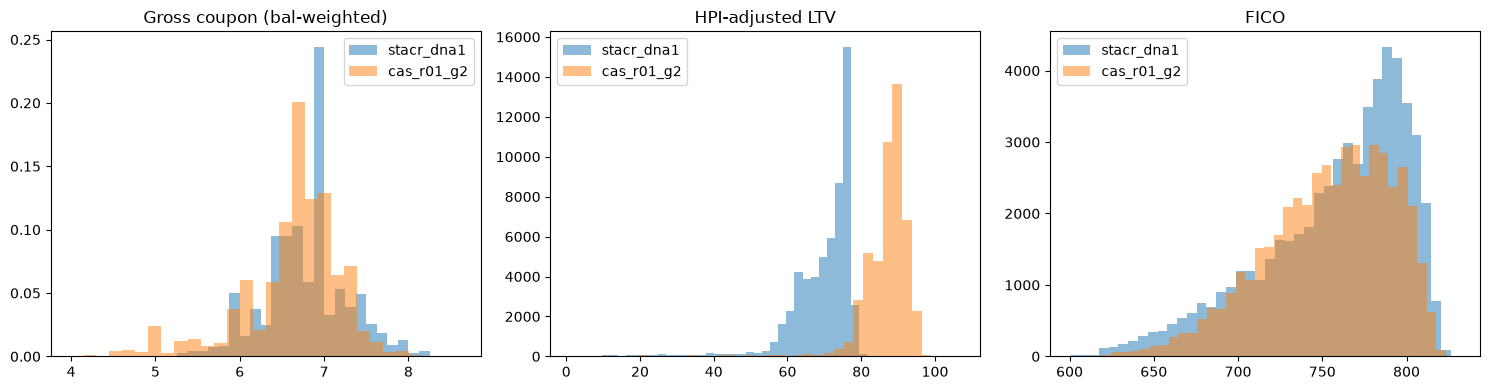
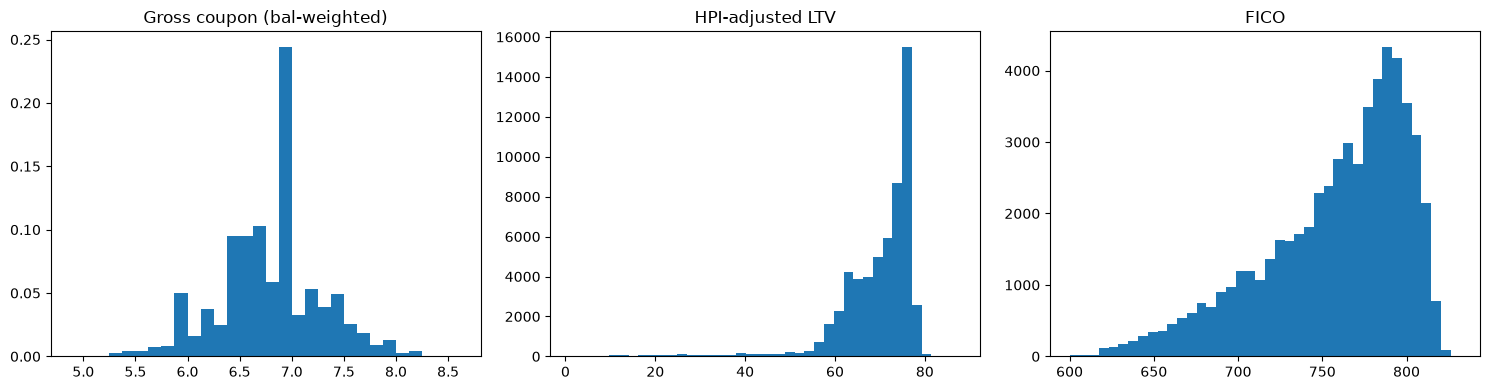
STACR only: remove CAS; add handoff note for the waterfall
- clean.py, README, docs and notebooks no longer load or compare CAS 2026-R01
- Notebook 01 rerun on the STACR pool only (loan-level preview cleared)
- outputs/HANDOFF_SMARAJIT.md: pool cash-flow columns, scenarios,
  pricing_rates.csv, SOFR at 0% in moderate/severe, 22-day first month

diff --git a/notebooks/scripts/01_data_check.py b/notebooks/scripts/01_data_check.py
@@ -1,7 +1,7 @@
 #!/usr/bin/env python
 # coding: utf-8
 
-# # 01 · Data check: STACR 2026-DNA1 & CAS 2026-R01 reference pools
+# # 01 · Data check: STACR 2026-DNA1 reference pool
 # 
 # **Purpose.** Before modeling, make sure the loan-level data is clean and understand what drives this pool's prepayment and credit risk. This notebook is the input side of the pipeline:
 # 
@@ -11,7 +11,7 @@
 # 
 # **Process.**
 # 1. **Clean** (`src/clean.py`): skip Bloomberg's title row, keep the modeling fields (balance, coupon, FICO, LTV, DTI, age, term, status, occupancy, purpose, state), map account status to a delinquency bucket (C = current, 3/6/9 = 30/60/90+ days), flag loans ever delinquent, set impossible HPI-LTVs of 0 to missing, and add each loan's balance weight.
-# 2. **Summarize** both pools with balance-weighted averages, the standard way to describe a mortgage pool.
+# 2. **Summarize** the pool with balance-weighted averages, the standard way to describe a mortgage pool.
 # 3. **Plot** the distributions that drive the model: coupon (refinancing incentive), HPI-adjusted LTV (default and severity), and FICO (default).
 # 4. **List status codes** still to resolve (`B`, `F`).
 # 5. **Anchor** the base-case prepayment speed on the paydown since the Feb 2026 cut-off.
@@ -50,11 +50,11 @@ clean.main()
 # In[3]:
 
 
-pools = {name: pd.read_parquet(clean.PROCESSED / f"{name}.parquet") for name in clean.FILES}
-pools['stacr_dna1'].head()
+pool = pd.read_parquet(clean.PROCESSED / "stacr_dna1.parquet")
+pool.head()
 
 
-# **Result · Cleaning.** `clean.py` ran without errors and wrote both parquet files: **STACR 56,871 loans, $19.44bn** and **CAS 48,808 loans, $16.90bn**. Every Bloomberg row with a Loan ID was kept (no duplicates, no zero balances). The table preview shows the added fields: `dq_bucket` (0 = current), `ever_dq`, and `weight` (each loan's share of pool balance). The only cleaning issue flagged is **20 STACR loans with status codes the map does not cover** (see section 4). CAS has none.
+# **Result · Cleaning.** `clean.py` ran without errors and wrote `data/processed/stacr_dna1.parquet`: **56,871 loans, $19.44bn**. Every Bloomberg row with a Loan ID was kept (no duplicates, no zero balances). The cleaned table adds `dq_bucket` (0 = current), `ever_dq`, and `weight` (each loan's share of pool balance). The only cleaning issue flagged is **20 loans with status codes the map does not cover** (see section 4).
 
 # ## 2. Pool summary (balance-weighted)
 
@@ -79,15 +79,15 @@ def summarize(df):
         "loans w/ unmapped status": df["dq_bucket"].isna().sum(),
     })
 
-pd.DataFrame({k: summarize(v) for k, v in pools.items()})
+summarize(pool).to_frame("stacr_dna1")
 
 
 # **Result · Pool summary.**
-# - **Credit quality is nearly identical**: WA FICO **759 vs 755** and WA DTI **38.5 vs 39.8**.
-# - **LTV is the real difference**: original LTV **75.6 vs 92.5**, and HPI-adjusted LTV **70.5 vs 87.0**. The two deals sit in different LTV buckets (STACR DNA1 ≤ 80, CAS group 2 > 80), so they carry different loss risk even with the same borrowers' credit scores.
-# - **Seasoning**: WA age **17.3 vs 15.4 months**. Both pools are young, but already past the fitted 6-month seasoning ramp (notebook 05), so they prepay at full speed.
-# - **Coupons**: WA **6.76% vs 6.62%**. That was above the market rate earlier in 2026 (PMMS about 6.05–6.5% from February to June), which explains the fast paydown since cut-off. With PMMS now at **7.28%**, both pools are about 0.5–0.7 pp *out of the money*.
-# - **Delinquency**: **0.62% vs 1.07%** of balance is 30+ days late. CAS is higher, consistent with its higher LTVs.
+# - **Credit quality is strong**: WA FICO **759** and WA DTI **38.5**.
+# - **Low LTV**: original LTV **75.6** (all loans 61–80), HPI-adjusted LTV **70.5**, so borrowers have about 30% equity at today's prices.
+# - **Seasoning**: WA age **17.3 months**: young, but already past the fitted 6-month seasoning ramp (notebook 05), so loans prepay at full speed.
+# - **Coupons**: WA **6.76%**. That was above the market rate earlier in 2026 (PMMS about 6.05–6.5% from February to June), which explains the fast paydown since cut-off. With PMMS now at **7.28%**, the pool is about 0.5 pp *out of the money*.
+# - **Delinquency**: **0.62%** of balance is 30+ days late.
 
 # ## 3. Distributions that drive your model
 # 
@@ -97,19 +97,18 @@ pd.DataFrame({k: summarize(v) for k, v in pools.items()})
 
 
 fig, axes = plt.subplots(1, 3, figsize=(15, 4))
-for name, df in pools.items():
-    axes[0].hist(df["Gross Coupon"], bins=30, weights=df["weight"], alpha=0.5, label=name)
-    axes[1].hist(df["HPI Adjusted LTV"].dropna(), bins=40, alpha=0.5, label=name)
-    axes[2].hist(df["Credit Score"].dropna(), bins=40, alpha=0.5, label=name)
+axes[0].hist(pool["Gross Coupon"], bins=30, weights=pool["weight"])
+axes[1].hist(pool["HPI Adjusted LTV"].dropna(), bins=40)
+axes[2].hist(pool["Credit Score"].dropna(), bins=40)
 for ax, t in zip(axes, ["Gross coupon (bal-weighted)", "HPI-adjusted LTV", "FICO"]):
-    ax.set_title(t); ax.legend()
+    ax.set_title(t)
 plt.tight_layout()
 
 
 # **Result · Distributions (balance-weighted coupon, LTV, FICO).**
-# - **Coupon**: about **80% of balance** in both pools has a coupon between 6.25% and 7.5% (82% STACR, 79% CAS). Because coupons are bunched, a rate move shifts most of the pool along the S-curve together, which is why prepayment is so rate-sensitive. From today's 7.28% PMMS, rates would need to fall about 1 pp to put most of the pool on the steep part of the curve.
-# - **HPI-adjusted LTV**: the two pools barely overlap. The middle 80% of STACR loans sit at **60–77** (max 88), while CAS sits at **80–93** (max 107, and **22 CAS loans are already underwater**). This is the single most important picture for severity.
-# - **FICO**: the middle 80% is about **690–800** in both pools, with tails down to about 600. The default model's FICO term matters mainly for that low-FICO tail.
+# - **Coupon**: about **82% of balance** has a coupon between 6.25% and 7.5%. Because coupons are bunched, a rate move shifts most of the pool along the S-curve together, which is why prepayment is so rate-sensitive. From today's 7.28% PMMS, rates would need to fall about 1 pp to put most of the pool on the steep part of the curve.
+# - **HPI-adjusted LTV**: the middle 80% of loans sit at **60–77** (max 88). No loan is underwater at today's prices. This is the key picture for severity.
+# - **FICO**: the middle 80% is about **690–800**, with a tail down to about 600. The default model's FICO term matters mainly for that low-FICO tail.
 
 # ## 4. Status codes still to resolve
 # 
@@ -118,7 +117,7 @@ plt.tight_layout()
 # In[6]:
 
 
-pools['stacr_dna1']['Account Status'].value_counts()
+pool['Account Status'].value_counts()
 
 
 # **Result · Status codes.** STACR has **56,465 current** loans, **261** 30-day, **56** 60-day and **69** 90+-day delinquent, plus **16 `B`** and **4 `F`**. `B`/`F` most likely mean bankruptcy and foreclosure (confirm with the Bloomberg field legend). They are only 20 loans, but they are the most likely to become credit events soon. The model currently treats them as seriously delinquent and puts them straight into the liquidation pipeline.
@@ -133,10 +132,10 @@ pools['stacr_dna1']['Account Status'].value_counts()
 
 # ## Results and takeaways
 # 
-# - **Size.** STACR DNA1 has **56,871 loans, $19.44bn** today (down from $22.78bn and 64,434 loans at the Feb 2026 cut-off). CAS R01 group 2 has 48,808 loans, $16.90bn. Every loan is a fixed-rate 30-year, about 15–17 months seasoned.
-# - **Credit quality is strong and similar**: WA FICO is 759 (STACR) vs 755 (CAS), and WA DTI is 38.5 vs 39.8.
-# - **The big difference is LTV**: STACR's original LTV is 61–80 (WA 75.6), while CAS group 2's is 81–97 (WA 92.5). On today's home prices the HPI-adjusted LTV is **70.5 vs 87.0**. STACR borrowers have about 30% equity, which lowers default rates, but calibration (notebook 05) shows liquidations still lose about 35–45% even at this LTV. CAS loans depend on mortgage insurance. **A direct STACR-vs-CAS spread comparison has to adjust for this.**
-# - **Coupons** (WA 6.76% STACR, 6.62% CAS) were in the money earlier in 2026, when PMMS was 6.05–6.5%. At today's **7.28%** they are out of the money, so prepayment should slow sharply from the ~23% CPR seen since cut-off. Prepayment is still the dominant risk for timing.
-# - **Delinquency is low**: 0.62% of STACR balance and 1.07% of CAS balance is currently 30+ days delinquent.
-# - **To resolve**: 16 STACR loans coded `B` and 4 coded `F` (most likely bankruptcy and foreclosure; confirm with the Bloomberg legend). The model currently treats them as seriously delinquent.
+# - **Size.** STACR DNA1 has **56,871 loans, $19.44bn** today (down from $22.78bn and 64,434 loans at the Feb 2026 cut-off). Every loan is a fixed-rate 30-year, about 17 months seasoned.
+# - **Credit quality is strong**: WA FICO 759, WA DTI 38.5.
+# - **Low LTV**: original LTV 61–80 (WA 75.6); HPI-adjusted LTV **70.5**. Borrowers have about 30% equity, which lowers default rates, but calibration (notebook 05) shows liquidations still lose about 35–45% even at this LTV. No loans have mortgage insurance, since none is above 80 LTV.
+# - **Coupons** (WA 6.76%) were in the money earlier in 2026, when PMMS was 6.05–6.5%. At today's **7.28%** they are out of the money, so prepayment should slow sharply from the ~23% CPR seen since cut-off. Prepayment is still the dominant risk for timing.
+# - **Delinquency is low**: 0.62% of balance is currently 30+ days delinquent.
+# - **To resolve**: 16 loans coded `B` and 4 coded `F` (most likely bankruptcy and foreclosure; confirm with the Bloomberg legend). The model currently treats them as seriously delinquent.
 # - **Prepayment anchor**: the paydown from $22.78bn to $19.44bn in about 7 months implies roughly **20–25% CPR**, which is the base-case target for notebook 02.

diff --git a/notebooks/scripts/02_prepay_credit_model.py b/notebooks/scripts/02_prepay_credit_model.py
@@ -16,7 +16,7 @@
 #    - *Seasoning ramp*: new loans prepay less at first. The data says the ramp is only about 6 months, much faster than PSA's 30.
 # 4. **Mark-to-market LTV** (`credit_model.mark_to_market_ltv`): tape HPI-adjusted LTV ÷ HPI path. Falling home prices raise LTV.
 # 5. **Default rate** (`credit_model.calculate_credit_event_rate`): a proportional hazard. A base rate (0.40% a year of loans starting a default spell) is scaled up by higher MTM LTV (more steeply above 80, where borrowers lose equity), lower FICO, higher DTI, and investor occupancy. Loans 30 days delinquent on the tape get an extra hazard for 12 months.
-# 6. **Severity** (`credit_model.calculate_loss_severity`): STACR is an **actual-loss** deal (PPM p. 172, 184), so there is no fixed severity. Loss = balance + 19 months of missed interest + 10% liquidation costs − distressed sale proceeds (property value × HPI × (1 − 48% discount)) − mortgage insurance (only for LTV > 80, relevant for CAS).
+# 6. **Severity** (`credit_model.calculate_loss_severity`): STACR is an **actual-loss** deal (PPM p. 172, 184), so there is no fixed severity. Loss = balance + 19 months of missed interest + 10% liquidation costs − distressed sale proceeds (property value × HPI × (1 − 48% discount)) − mortgage insurance (only for LTV > 80, so none in STACR DNA1).
 # 7. **Modification loss** (`credit_model.modification_loss`): a modified loan's rate cut is a loss under STACR (PPM p. 84-85).
 # 
 # The scenario paths below are **placeholders** until Coco's `src/scenarios.py` is ready. The model parameters (the `PARAMS` dicts) are **fitted on Freddie Mac loan-level history** in notebook 05.
@@ -280,7 +280,7 @@ for name, hpi in hpi_paths.items():
 # A: STACR is an **actual-loss** deal: tranches are written down by the realized loss on each liquidated loan, not a fixed percentage. Changing severity from about 4% to about 43% (base case) is what moved expected losses from 0.016% to 0.21% of the cut-off balance.
 # 
 # **Q: What would lower severity in practice?**
-# A: Mortgage insurance (only on loans above 80 LTV, so it matters for CAS group 2, not STACR DNA1), short sales instead of REO sales, faster foreclosure timelines (fewer months of missed interest), and rising home prices.
+# A: Mortgage insurance (only on loans above 80 LTV, so not for STACR DNA1, where every loan is at or below 80), short sales instead of REO sales, faster foreclosure timelines (fewer months of missed interest), and rising home prices.
 
 # In[11]:
 

diff --git a/notebooks/scripts/05_calibration_results.py b/notebooks/scripts/05_calibration_results.py
@@ -6,7 +6,7 @@
 # **Purpose.** Replace the placeholder parameters of the prepayment and credit models with values estimated from real mortgage performance, so that the projections in notebooks 02–04 and the tranche analysis rest on data.
 # 
 # **Data (all kept local, never committed).**
-# - **Freddie Mac Single-Family Loan-Level Dataset, sample files**: 50,000 loans per origination year, 2000–2026, with monthly performance through 2026. Only 30-year fixed-rate loans are kept, to match STACR / CAS. Files: `data/raw/freddie_sf/`.
+# - **Freddie Mac Single-Family Loan-Level Dataset, sample files**: 50,000 loans per origination year, 2000–2026, with monthly performance through 2026. Only 30-year fixed-rate loans are kept, to match STACR DNA1. Files: `data/raw/freddie_sf/`.
 # - **Freddie PMMS 30-year rate** (FRED `MORTGAGE30US`): the market rate that drives refinancing incentive.
 # - **FHFA purchase-only national HPI** (FRED `HPIPONM226S`): rolls each loan's original LTV forward to a mark-to-market LTV.
 # 
@@ -72,7 +72,7 @@ print(f"prepay: {r['prepay']['n'].sum():,.0f} loan-months  |  default: {r['defau
 # **Q&A · Building the calibration tables**
 # 
 # **Q: Why only 30-year fixed-rate loans?**
-# A: STACR DNA1 and CAS R01 reference pools are all 30-year fixed-rate loans. ARMs and 15-year loans prepay and default differently, so including them would bias the fit.
+# A: The STACR DNA1 reference pool is all 30-year fixed-rate loans. ARMs and 15-year loans prepay and default differently, so including them would bias the fit.
 # 
 # **Q: Why are COVID forbearance months (Mar 2020 – Dec 2021) left out of the default fit?**
 # A: During forbearance, missed payments were reported as delinquencies, but most of those borrowers resumed paying without a loss. Counting them as defaults would roughly double the fitted default rate (0.81% vs 0.40% a year when they're included) and understate the liquidation share.

diff --git a/notebooks/scripts/04_function_walkthrough.py b/notebooks/scripts/04_function_walkthrough.py
@@ -386,7 +386,7 @@ sev.loc[["0.80", "1.00", "1.10"]]
 # A: With LTV 78 the home is worth only 1.28× the loan (vs 1.54× at LTV 65), so sale proceeds cover less of the balance, and its higher coupon (7.25%) adds more missed interest. Its severity is 55% today vs 41% for `good`. Per 10% price drop, `good`'s severity actually rises slightly more (about 0.080× vs 0.067× the balance), because each percent of a relatively larger home value is more dollars per dollar of loan.
 # 
 # **Q: What does MI do in the formula?**
-# A: For loans with original LTV above 80 (none in STACR DNA1, all of CAS group 2), mortgage insurance pays 18.5% of the claim, lowering severity by about 0.2× the balance.
+# A: For loans with original LTV above 80 (none in STACR DNA1), mortgage insurance pays 18.5% of the claim, lowering severity by about 0.2× the balance.
 
 # ---
 # ## 10 · `modification_loss`: cost of rate cuts

diff --git a/notebooks/scripts/06_freddie_walkthrough.py b/notebooks/scripts/06_freddie_walkthrough.py
@@ -98,7 +98,7 @@ print("missing FICO / DTI:", o07["fico"].isna().sum(), "/", o07["dti"].isna().su
 # **Q&A · `load_orig`**
 # 
 # **Q: Why drop the 14% of loans that aren't 30-year fixed?**
-# A: STACR DNA1 and CAS R01 are pools of 30-year fixed-rate loans. 15- and 20-year loans prepay faster and default less, and ARMs reset, so mixing them in would bias every fitted parameter.
+# A: STACR DNA1 is a pool of 30-year fixed-rate loans. 15- and 20-year loans prepay faster and default less, and ARMs reset, so mixing them in would bias every fitted parameter.
 # 
 # **Q: What do the occupancy and purpose codes mean?**
 # A: Occupancy: P = primary residence, I = investment property, S = second home. Purpose: P = purchase, C = cash-out refinance, N = no-cash-out (rate/term) refinance. The model uses occupancy (investor ×1.22 default rate); purpose isn't in the model yet but could be added.

diff --git a/src/credit_model.py b/src/credit_model.py
@@ -23,7 +23,7 @@ Severity (actual loss as a fraction of UPB):
 
     loss = UPB * (1 + LIQ_LAG * coupon / 1200 + COSTS)        UPB + missed interest + costs
            - property value * HPI * (1 - REO_DISCOUNT)        distressed sale proceeds
-           - MI proceeds                                     only if original LTV > 80 (CAS)
+           - MI proceeds                                     only if original LTV > 80 (none in STACR DNA1)
 
 PARAMS are FITTED on Freddie Mac Single-Family Loan-Level Dataset history (see
 src/calibration.py, notebooks/05_calibration_results.ipynb):

diff --git a/src/clean.py b/src/clean.py
@@ -1,4 +1,4 @@
-"""Load and clean Bloomberg loan-level files for the STACR / CAS reference pools.
+"""Load and clean the Bloomberg loan-level file for the STACR 2026-DNA1 reference pool.
 
 Bloomberg exports have a title row (e.g. "STACR 26-DNA1 A1 Mtge") above the header,
 mixed text/number status codes, and a pay-history string per loan.
@@ -12,7 +12,6 @@ PROCESSED = ROOT / "data" / "processed"
 
 FILES = {
     "stacr_dna1": "STACR_2026_DNA1_A1_Loan_Level.xlsx",
-    "cas_r01_g2": "CAS_2026_R01_2A1_Loan_level.xlsx",
 }
 
 KEEP = [

diff --git a/src/collateral.py b/src/collateral.py
@@ -6,7 +6,7 @@ The model is split into:
   - src/collateral_projection.py monthly pool table handed to the waterfall
 
 Calibrate on HISTORICAL data (course data / Freddie Single-Family Loan-Level Dataset),
-then apply to the current STACR / CAS pools. The Bloomberg snapshots alone have too
+then apply to the current STACR pool. The Bloomberg snapshots alone have too
 little performance history to estimate stress behavior.
 """
 from src.prepayment import calculate_cpr, calculate_smm, calculate_prepayment  # noqa: F401

diff --git a/src/freddie.py b/src/freddie.py
@@ -4,7 +4,7 @@ Files (NOT committed, licensed): data/raw/freddie_sf/sample_orig_YYYY.txt and
 sample_perf_YYYY.txt, pipe-delimited, no header. Column positions follow Freddie's
 "Single-Family Loan-Level Dataset General User Guide" file layout.
 
-Only 30-year fixed-rate loans are kept, to match the STACR / CAS reference pools.
+Only 30-year fixed-rate loans are kept, to match the STACR reference pool.
 compact_panel() writes one small parquet per vintage to data/processed/freddie/.
 """
 from pathlib import Path

diff --git a/outputs/HANDOFF_SMARAJIT.md b/outputs/HANDOFF_SMARAJIT.md
@@ -1,0 +1,48 @@
+# Handoff: collateral cash flows for the waterfall (Reza → Smarajit)
+
+## Files
+
+| What | Where |
+|---|---|
+| Monthly pool cash flows, one file per scenario | `outputs/tables/pool_cf_{good,base,moderate,severe}.csv` (same data as `outputs/pool_cf_*.parquet`) |
+| Scenario summary (CPR, end balance, losses) | `outputs/tables/scenario_summary.csv` |
+| SOFR coupons and discount factors (Coco) | `data/scenarios/pricing_rates.csv` |
+| Scenario paths (Coco) | `data/scenarios/scenarios.csv` |
+| How the numbers are produced | `notebooks/03_pool_projection.ipynb`, `notebooks/08_scenarios_and_export.ipynb` |
+
+Regenerate everything with `python -m src.export_results` after any input changes.
+
+## `pool_cf_<scenario>.csv` columns (all amounts in $, reference pool level)
+
+| Column | Meaning | Use in the waterfall |
+|---|---|---|
+| `month` | 1–53; month *t* is the payment date in row *t* of `pricing_rates.csv` (month 1 = 2026-10-25, month 53 = 2031-02-25 call) | join key with `pricing_rates.csv` |
+| `beginning_balance` / `ending_balance` | reference pool UPB (performing + loans in the liquidation pipeline) | Senior Percentage, 10% clean-up test |
+| `scheduled_principal` | contractual amortization | part of Stated Principal |
+| `prepayments` | voluntary prepayments (payoffs + curtailments) | part of Stated Principal |
+| `defaults` | UPB removed by **credit events** this month | not principal to the notes |
+| `losses` | actual loss on those credit events (UPB + missed interest + costs − proceeds − MI) | Principal Loss Amount → write-downs, bottom up |
+| `recoveries` | always 0 (not modeled) | write-ups |
+| `modification_losses` | interest lost on modified loans | modification loss allocation (interest first, PPM p. 84-85) |
+| `distressed_balance` | 60+ dq / FC / REO in the pipeline + loans modified in the last 12 months | Delinquency Test (6-month average) |
+
+Identity each month: `ending = beginning − scheduled_principal − prepayments − defaults`.
+Cumulative net loss for the triggers = cumulative `losses` / cut-off balance **$22,781,151,551.84**.
+
+## Scenarios (Coco, as of 2026-10-03)
+
+| | mortgage rate month 12 → 53 | HPI by 2031 | loss % of cut-off |
+|---|---|---|---|
+| good | 6.70% → 5.67% | +32% | 0.193% |
+| base | 6.74% → 5.79% | +22% | 0.210% |
+| moderate | 7.14% → 5.90% | −14% | 0.289% |
+| severe | 7.09% → 5.39% | −21% | 0.358% |
+
+Losses reach B-2H only in moderate and severe; A-1, M-1 and M-2 take no write-downs in any scenario.
+
+## Watch out for
+
+1. **SOFR falls to 0% in moderate and severe.** Those paths replay 2006–2011, so `sofr_coupon_decimal` in `pricing_rates.csv` is zero from month 21 (severe) and month 37 (moderate) onward. Note coupons (SOFR + spread, 0% floor on SOFR) drop to roughly the spread.
+2. **Month 1 is a 22-day stub** (2026-10-03 → 2026-10-25). `pricing_rates.csv` uses 22 discount days for month 1 (coupon accrual is the full 30 days from 2026-09-25). The collateral model treats month 1 as a full month, so month-1 prepayments and defaults are about 8 days' worth too high.
+3. **Pool balance vs cut-off.** Projections start from today's tape ($19.44bn); deal ratios (attachment points, cumulative loss tests) use the $22.78bn cut-off balance.
+4. **Discount factors** are the scenario's own SOFR path with no credit spread (`physical_scenario_overnight_no_credit_spread`). Add the tranche spread or solve for the discount margin on top.

diff --git a/docs/cashflows.md b/docs/cashflows.md
@@ -125,24 +125,3 @@ The Minimum Credit Enhancement Test starts at exactly 4.800% vs a 3.525% thresho
   - all Original Notes paid down to zero, or the last loan leaves the pool
 - On early redemption, notes are repaid at their outstanding (written-down) principal balance. Any loss already written down is not restored.
 - Pricing assumes the call is exercised in February 2031 (p. x, footnote 1).
-
-## Comparison: CAS 2026-R01 (Group 2 is high-LTV, 81% to 97%)
-
-| | STACR 2026-DNA1 | CAS 2026-R01 (Group 2) |
-|---|---|---|
-| Sponsor | Freddie Mac | Fannie Mae |
-| Closing | Feb 17, 2026 | Feb 11, 2026 |
-| Reference pool | $22.78bn, 64,434 loans | $18.82bn, 52,876 loans |
-| Original LTV | 61% to 80% (WA 76%) | over 80% to 97% |
-| WA credit score | 759 | 756 |
-| WA DTI | 38% | 39.8% |
-| Offered notes | $627.5mm | $661.7mm |
-| Senior offered class | A-1, 3.525% to 4.800% | 2A-1, from 5.10% |
-| Mezzanine | M-1 2.250% to 3.525%, M-2 1.900% to 2.250% | 2M-1 3.65% to 5.10%, 2M-2 2.85% to 3.65% |
-| Retention | about 5% vertical slice of each offered band, plus all B tranches | 5% vertical slice, plus 2B tranches |
-| Call | 5 years (Feb 2031) or 10% clean-up | after Jan 2031 or 10% clean-up |
-| Maturity | Feb 2046 | Jan 2046 |
-
-The CAS pool has higher LTVs, so it carries thicker credit enhancement at each rating level. Mortgage insurance on CAS loans above 80% LTV is a key driver of severity there.
-
-CAS figures are from Fannie Mae's CAS 2026-R01 term sheet and KBRA's pre-sale release, not the STACR PPM. They should be checked against the CAS offering memorandum before use in the report.

diff --git a/README.md b/README.md
@@ -7,8 +7,7 @@ UC Berkeley MFE · MFE230M Asset Securitization (ABSM) · Fall 2026 · Final Pro
 
 ## Objective
 Analyze and price Freddie Mac STACR 2026-DNA1 (classes A-1, M-1, M-2) from the
-perspective of a consultant advising prospective investors, with Fannie Mae
-CAS 2026-R01 as a comparison deal.
+perspective of a consultant advising prospective investors.
 
 | Class | Amount | Rule 144A CUSIP | Reg S CUSIP |
 |---|---|---|---|
@@ -34,7 +33,6 @@ data/raw → clean.py → collateral.py + scenarios.py → waterfall.py → pric
 Bloomberg loan-level files and course historical data are licensed and must stay
 local. Place them in `data/raw/`:
 - `STACR_2026_DNA1_A1_Loan_Level.xlsx`
-- `CAS_2026_R01_2A1_Loan_level.xlsx`
 - historical performance data for model calibration
 
 ## Setup
